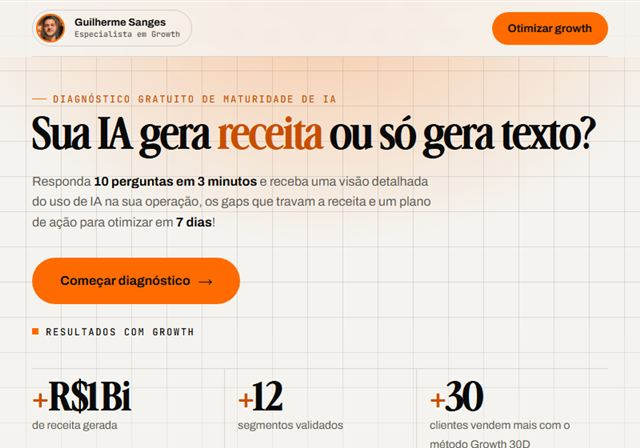
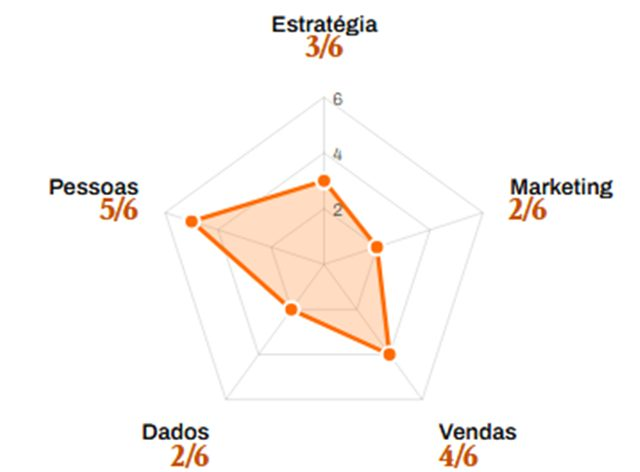
Prévia do card de diagnóstico com gráfico teia de aranha

diff --git a/css/styles.css b/css/styles.css
@@ -1339,8 +1339,8 @@ h1, h2, h3, h4, .stat__value, .method__hook, .hub__core, .market-take__mark, .ca
   display: flex; align-items: center; justify-content: center;
 }
 .mat-prev .card__type { position: absolute; top: 10px; left: 10px; z-index: 2; background: rgba(10, 10, 10, 0.8); }
-.mat-prev--shot { background: var(--off-white); align-items: flex-start; }
-.mat-prev--shot img { width: 100%; height: 100%; object-fit: cover; object-position: top left; display: block; }
+.mat-prev--shot { background: #fff; align-items: center; }
+.mat-prev--shot img { width: 100%; height: 100%; object-fit: cover; object-position: center; display: block; }
 
 .mock { width: 74%; display: flex; gap: 8px; margin-top: 18px; }
 .mock i, .mock b { display: block; background: rgba(245, 243, 239, 0.16); border-radius: 4px; }

diff --git a/index.html b/index.html
@@ -403,7 +403,7 @@
         <a class="card card--mat" href="https://guilhermesangesgrowth-maker.github.io/hub/diagnostico-ia-gs-growth/" target="_blank" rel="noopener">
           <div class="mat-prev mat-prev--shot">
             <span class="card__type">Diagnóstico</span>
-            <img src="assets/prev-diagnostico-ia.jpg" alt="Prévia da página do Diagnóstico de Operação com IA" width="640" height="448" loading="lazy" decoding="async" />
+            <img src="assets/prev-diagnostico-ia.jpg" alt="Gráfico teia de aranha do Diagnóstico de Operação com IA" width="640" height="472" loading="lazy" decoding="async" />
           </div>
           <div class="card__body">
             <span class="card__category">IA</span>
